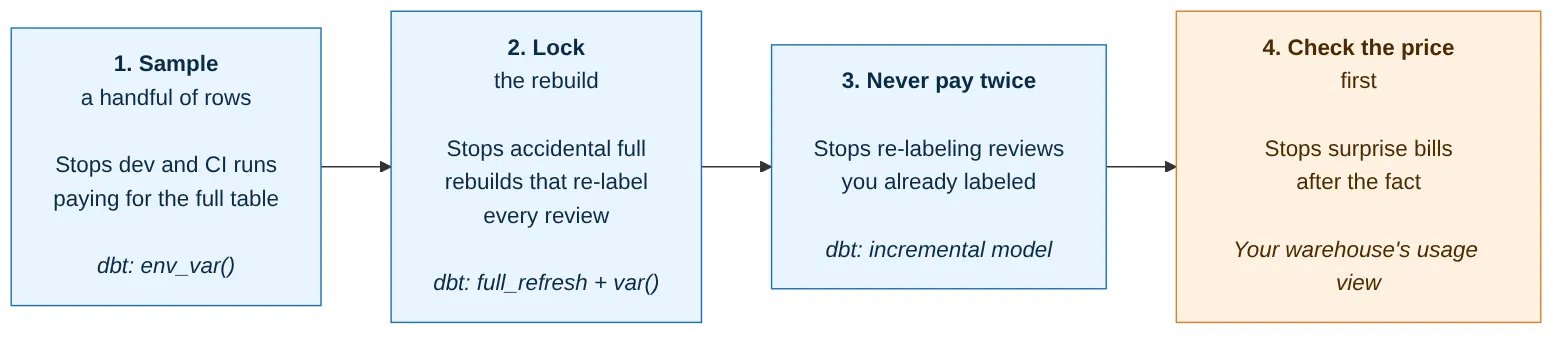
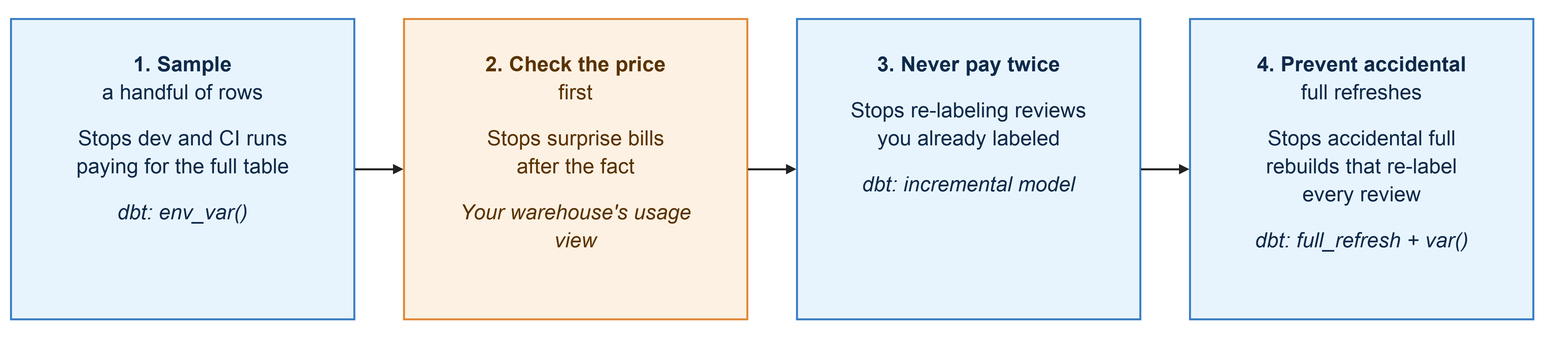
Update guardrails diagram to match new pattern order

diff --git a/website/blog/2026-11-26-ai-function-guardrails.md b/website/blog/2026-11-26-ai-function-guardrails.md
@@ -279,9 +279,7 @@ The [`full_refresh` config](/reference/resource-configs/full_refresh) has three 
 | 3. Never pay twice | Re-tagging rows you already tagged | Incremental models |
 | 4. Prevent accidental full refreshes | Accidental full rebuilds that re-tag every row | `full_refresh` config set by a variable |
 
-<Lightbox src="/img/blog/2026-11-26-ai-function-guardrails/four-guardrail-patterns.png" width="100%" title="The four guardrails in order: sample a handful of rows, prevent accidental full refreshes, never pay twice, and check the price first" />
-
-{/* TODO: this diagram still shows the old order. Regenerate as sample, check the price, never pay twice, prevent accidental full refreshes, then update the title. */}
+<Lightbox src="/img/blog/2026-11-26-ai-function-guardrails/four-guardrail-patterns.png" width="100%" title="The four guardrails in order: sample a handful of rows, check the price first, never pay twice, and prevent accidental full refreshes" />
 
 ## What's next
 
